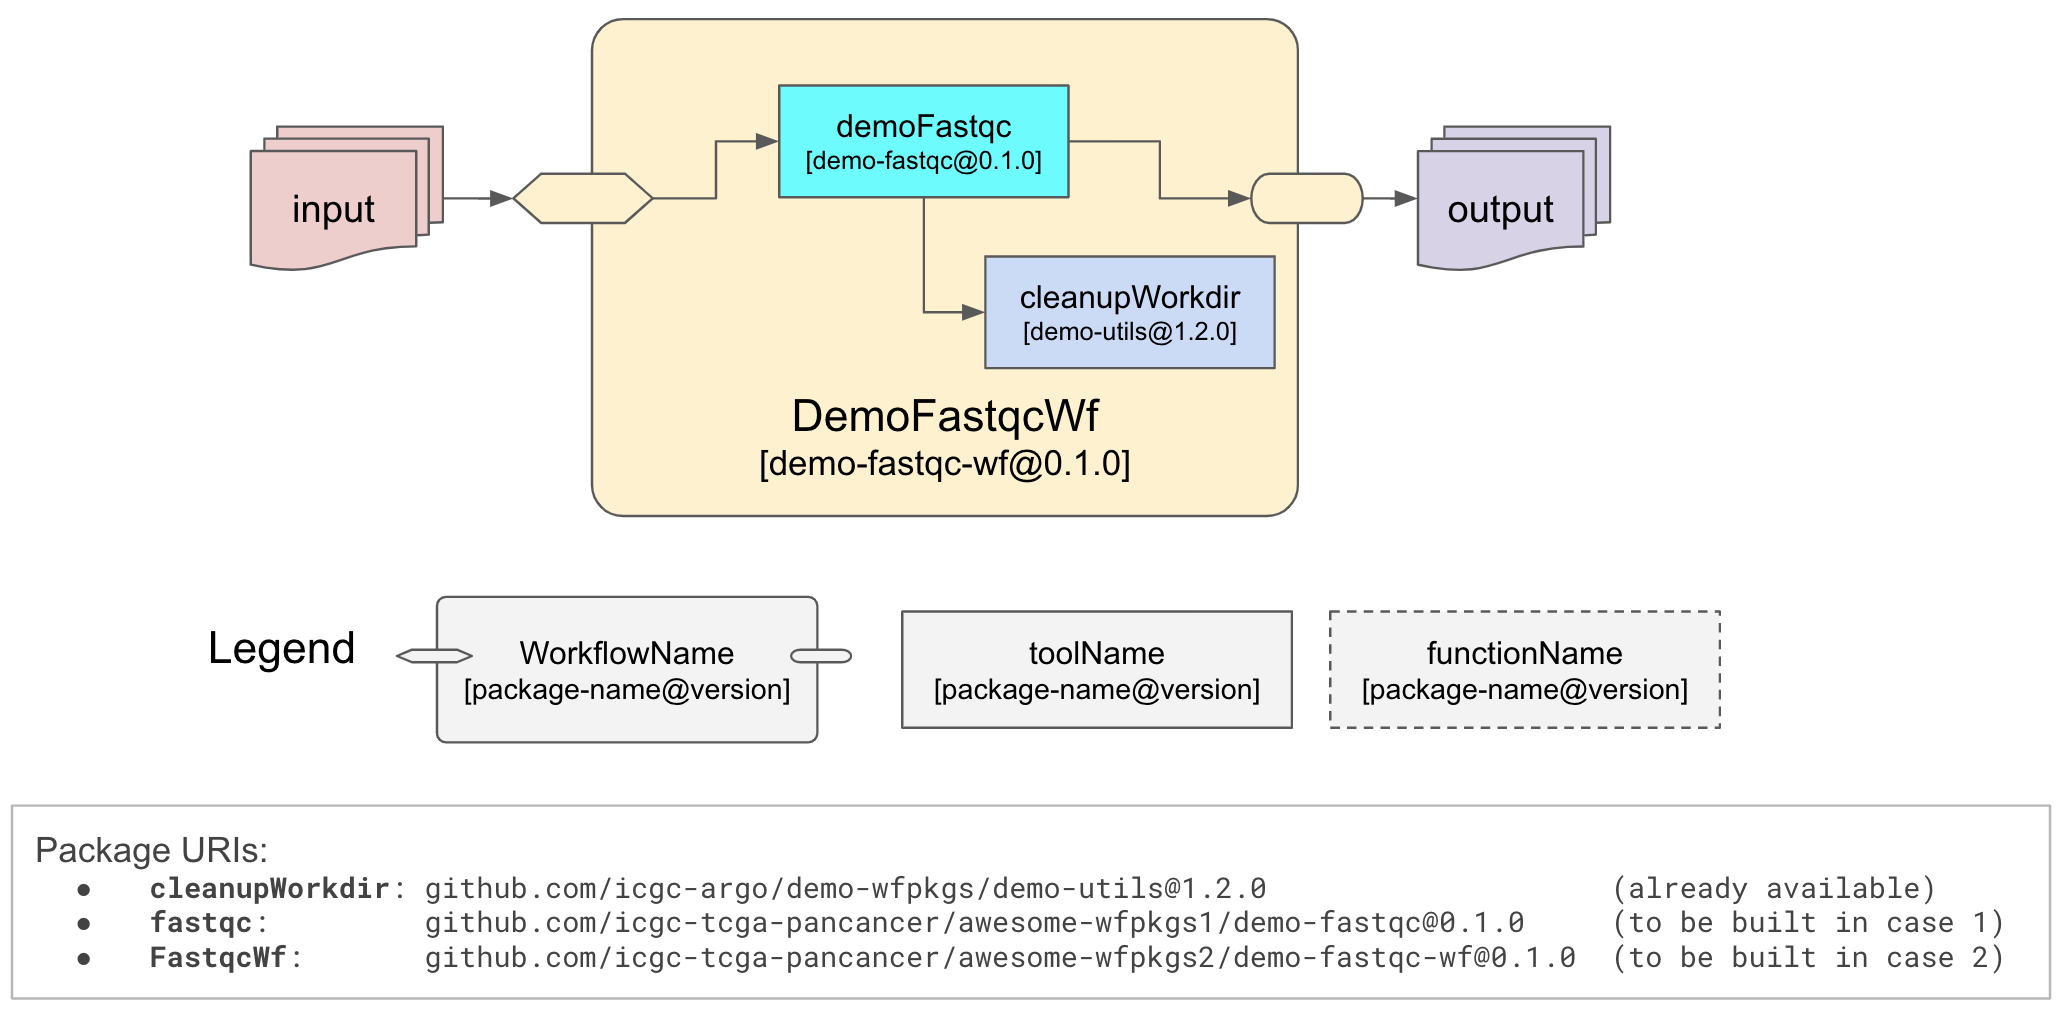
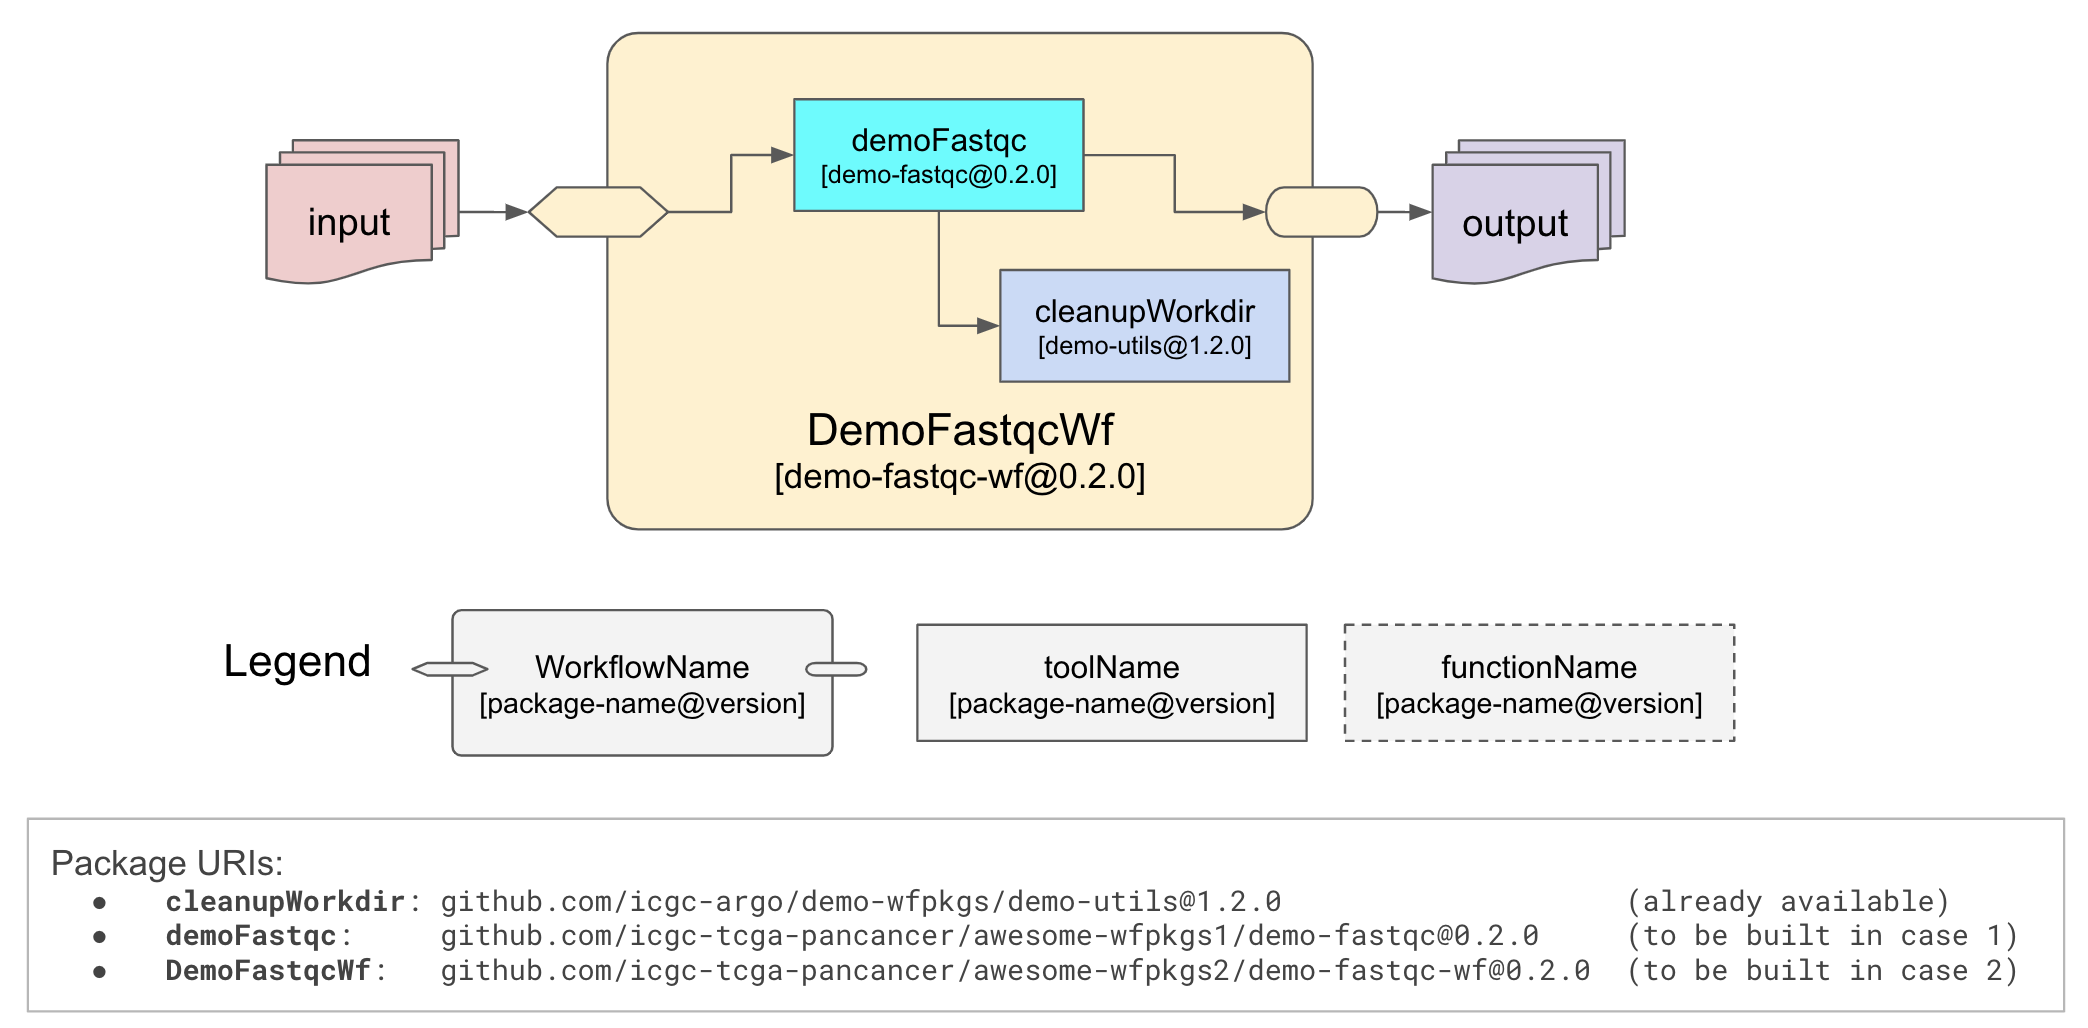
update README, update image

diff --git a/README.md b/README.md
@@ -100,15 +100,15 @@ We present here step-by-step instructions how to use `wfpm` to create Nextflow D
 
 Our objective is to create a workflow that uses `FASTQC` tool to produce QC metrics for input sequencing
 reads. A utility `cleanupWorkdir` tool is also used to remove unneeded intermediate files. The diagram below
-illustrates how the workflow is structured, basically, workflow package `demo-fastqc-wf@0.1.0` contains two
-tool packages: `deom-fastqc@0.1.0` and `demo-utils@1.2.0`. We will be creating `demo-fastqc@0.1.0` and
-`demo-fastqc-wf@0.1.0` while `demo-utils@1.2.0` is already available, we just need to import it as a dependency.
+illustrates how the workflow is structured, basically, workflow package `demo-fastqc-wf@0.2.0` contains two
+tool packages: `deom-fastqc@0.2.0` and `demo-utils@1.2.0`. We will be creating `demo-fastqc@0.2.0` and
+`demo-fastqc-wf@0.2.0` while `demo-utils@1.2.0` is already available, we just need to import it as a dependency.
 
 ![](https://raw.githubusercontent.com/icgc-argo/wfpm/415dd6ccb33424ea738abd543a867f202f1fc66c/docs/source/_static/packages-to-be-built.png)
 
 The packages created by the demo cases can be found at:
-[https://github.com/ICGC-TCGA-PanCancer/awesome-wfpkgs1](https://github.com/ICGC-TCGA-PanCancer/awesome-wfpkgs1) and
-[https://github.com/ICGC-TCGA-PanCancer/awesome-wfpkgs2](https://github.com/ICGC-TCGA-PanCancer/awesome-wfpkgs2) for your reference.
+[https://github.com/ICGC-TCGA-PanCancer/awesome-wfpkgs1/releases/tag/demo-fastqc.v0.2.0](https://github.com/ICGC-TCGA-PanCancer/awesome-wfpkgs1/releases/tag/demo-fastqc.v0.2.0) and
+[https://github.com/ICGC-TCGA-PanCancer/awesome-wfpkgs2/releases/tag/demo-fastqc-wf.v0.2.0](https://github.com/ICGC-TCGA-PanCancer/awesome-wfpkgs2/releases/tag/demo-fastqc-wf.v0.2.0) for your reference.
 
 **NOTE**: You are encouraged to follow these steps to create your own tool / workflow packages. Simply replacing
 the GitHub organization `ICGC-TCGA-PanCancer` used here by your own GitHub org, it should just work.
@@ -155,7 +155,7 @@ git push -u origin main
 ```
 
 When you are ready, as suggested above you can push the code to GitHub. Upon push received at
-GitHub, CI/CD process will be automatically triggered.
+GitHub, CI/CD process will be automatically triggered. You should see CI tests pass, which indicates everything went well.
 
 
 3. Create your first tool package
@@ -165,8 +165,8 @@ wfpm new tool demo-fastqc
 ```
 
 We use the bioinformatics tool `fastqc` as an example here. You
-can pretty much use the default values in the prompt to advance forward. Upon completion,
-you should see a message like `New package created in: demo-fastqc. Starting template added and committed to git. Please continue working on it`. Template code is added to the `demo-fastqc@0.1.0` branch,
+can pretty much use the default values in the prompt to advance forward, except for using `0.2.0` for package version. Upon completion,
+you should see a message like `New package created in: demo-fastqc. Starting template added and committed to git. Please continue working on it`. Template code is added to the `demo-fastqc@0.2.0` branch,
 and WFPM CLI sets the newly created package as currently *worked on* package, you may verify it by
 running:
 
@@ -179,8 +179,8 @@ You should see the following message:
 ```
 Packages released: <none>
 Packages in development:
-  demo-fastqc: 0.1.0
-Package being worked on: demo-fastqc@0.1.0
+  demo-fastqc: 0.2.0
+Package being worked on: demo-fastqc@0.2.0
 ```
 
 When creating your own package, the generated package template gives you the starting point, change the
@@ -188,7 +188,7 @@ code as needed. In this demo, the generated `demo-fastqc` pacakge is already ful
 just push the code to GitHub:
 
 ```
-git push -u origin demo-fastqc@0.1.0
+git push -u origin demo-fastqc@0.2.0
 ```
 
 Upon receiving the push, GitHub will automatically start CI/CD via GitHub Actions. If the test
@@ -204,14 +204,14 @@ as needed to match your org and repo), click on `Change Visibility`, then choose
 
 When you merge the above PR, as part of the comment, you may type a special
 instruction `[release]` to let GitHub Actions start the release process, as shown in
-the screenshot below. With this GitHub will first merge the `demo-fastqc@0.1.0` branch to the `main` branch,
+the screenshot below. With this GitHub will first merge the `demo-fastqc@0.2.0` branch to the `main` branch,
 then starts the release process, once tests are successful, a release of your first tool package
 will be made automatically.
 
 ![](https://raw.githubusercontent.com/icgc-argo/wfpm/8b966d125f815178fee13769c8e549b87ad44b96/docs/source/_static/merge-with-release.png)
 
 
-The release should be available at: [https://github.com/ICGC-TCGA-PanCancer/awesome-wfpkgs1/releases/tag/demo-fastqc.v0.1.0](https://github.com/ICGC-TCGA-PanCancer/awesome-wfpkgs1/releases/tag/demo-fastqc.v0.1.0)
+The release should be available at: [https://github.com/ICGC-TCGA-PanCancer/awesome-wfpkgs1/releases/tag/demo-fastqc.v0.2.0](https://github.com/ICGC-TCGA-PanCancer/awesome-wfpkgs1/releases/tag/demo-fastqc.v0.2.0)
 and can be imported and used by anyone (of course including yourself) in their
 workflows. How to do that? Please continue to the next demo use case.
 
@@ -219,7 +219,7 @@ workflows. How to do that? Please continue to the next demo use case.
 ### Demo use case 2: create and publish a `workflow` package
 
 In this demo we will be creating a new `workflow` package that makes use of the `demo-fastqc` tool package
-we created in demo use case 1 (by now it has been released [here](https://github.com/ICGC-TCGA-PanCancer/awesome-wfpkgs1/releases/tag/demo-fastqc.v0.1.0))
+we created in demo use case 1 (by now it has been released [here](https://github.com/ICGC-TCGA-PanCancer/awesome-wfpkgs1/releases/tag/demo-fastqc.v0.2.0))
 and another utility package published
 here: [https://github.com/icgc-argo/demo-wfpkgs/releases/tag/demo-utils.1.2.0](https://github.com/icgc-argo/demo-wfpkgs/releases/tag/demo-utils.1.2.0)
 
@@ -249,14 +249,14 @@ Let's name the first `workflow` package `demo-fastqc-wf`:
 wfpm new workflow demo-fastqc-wf
 ```
 
-You may response most of the fields with the default values. Notice that there are dependencies the new
+You may response most of the fields with the default values, except for using `0.2.0` for package version. Notice that there are dependencies the new
 workflow requires:
-* `github.com/icgc-tcga-pancancer/awesome-wfpkgs1/demo-fastqc@0.1.0`
+* `github.com/icgc-tcga-pancancer/awesome-wfpkgs1/demo-fastqc@0.2.0`
 * `github.com/icgc-argo/demo-wfpkgs/demo-utils@1.2.0`
 
 `wfpm` will automatically install and test dependent packages in a temporary directory, once verified
 all dependencies tested successfully, they will be copied over to the project space. You should see the
-message: `New package created in: demo-fastqc-wf. Starting template added and committed to git. Please continue working on it`. Template code is added to the `demo-fastqc-wf@0.1.0` branch,
+message: `New package created in: demo-fastqc-wf. Starting template added and committed to git. Please continue working on it`. Template code is added to the `demo-fastqc-wf@0.2.0` branch,
 and WFPM CLI sets the newly created package as currently *worked on* package, you may verify it by
 running:
 
@@ -269,15 +269,16 @@ The auto-generated workflow code is fully functional, you may invoke tests as:
 wfpm test
 ```
 
-This is equivalent to running the test using Nextflow command directly:
+This is equivalent to running the tests using Nextflow command directly:
 ```
 cd demo-fastqc-wf/tests
 nextflow run checker.nf -params-file test-job-1.json
+nextflow run checker.nf -params-file test-job-2.json
 ```
 
 You should see the test run successfully. We now simply push the code to GitHub:
 ```
-git push -u origin demo-fastqc-wf@0.1.0
+git push -u origin demo-fastqc-wf@0.2.0
 ```
 
 CI/CD process will be triggered on the new branch similar to demo 1. Once tests pass, you may create
@@ -286,7 +287,7 @@ a PR as usual.
 4. Publish your first workflow package
 
 When merge the PR, type the special instruction `[release]` in the comment (similar as in the previous demo)
-to trigger the CI/CD release process via GitHub Actions. Once released, the demo workflow package will be available at: [https://github.com/ICGC-TCGA-PanCancer/awesome-wfpkgs2/releases/tag/demo-fastqc-wf.v0.1.0](https://github.com/ICGC-TCGA-PanCancer/awesome-wfpkgs2/releases/tag/demo-fastqc-wf.v0.1.0)
+to trigger the CI/CD release process via GitHub Actions. Once released, the demo workflow package will be available at: [https://github.com/ICGC-TCGA-PanCancer/awesome-wfpkgs2/releases/tag/demo-fastqc-wf.v0.2.0](https://github.com/ICGC-TCGA-PanCancer/awesome-wfpkgs2/releases/tag/demo-fastqc-wf.v0.2.0)
 
 
 ### Summary
